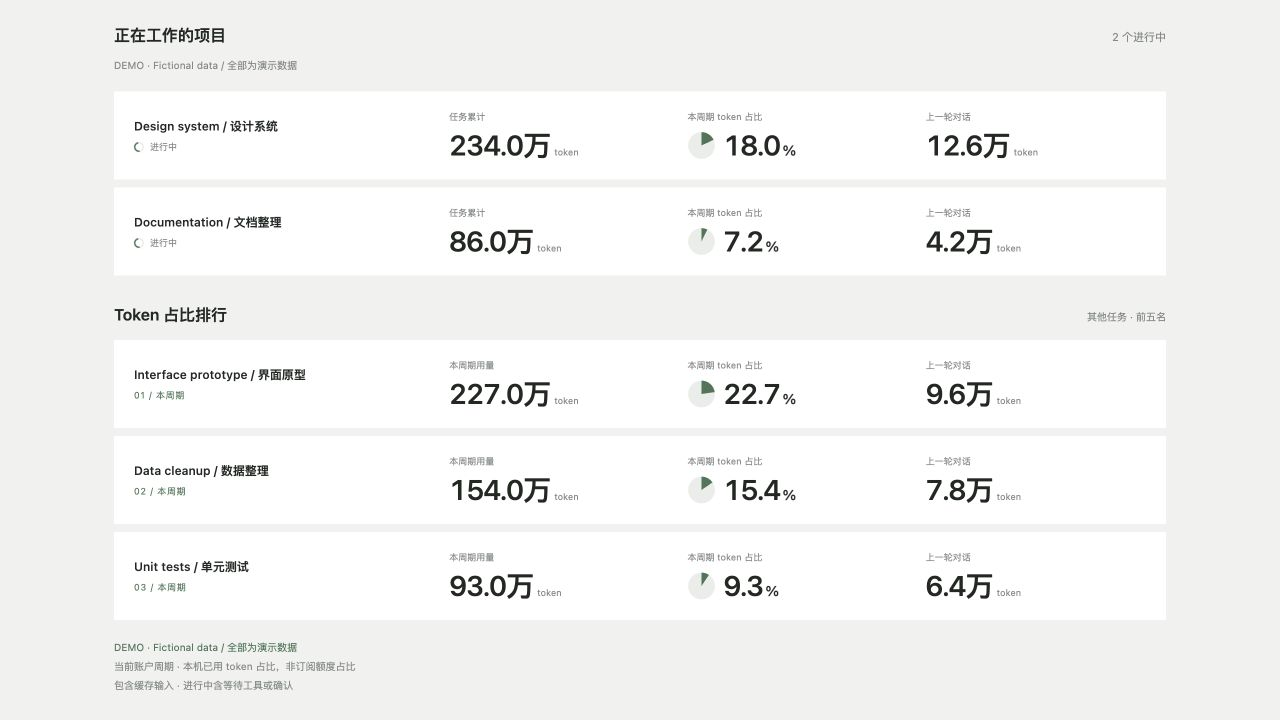
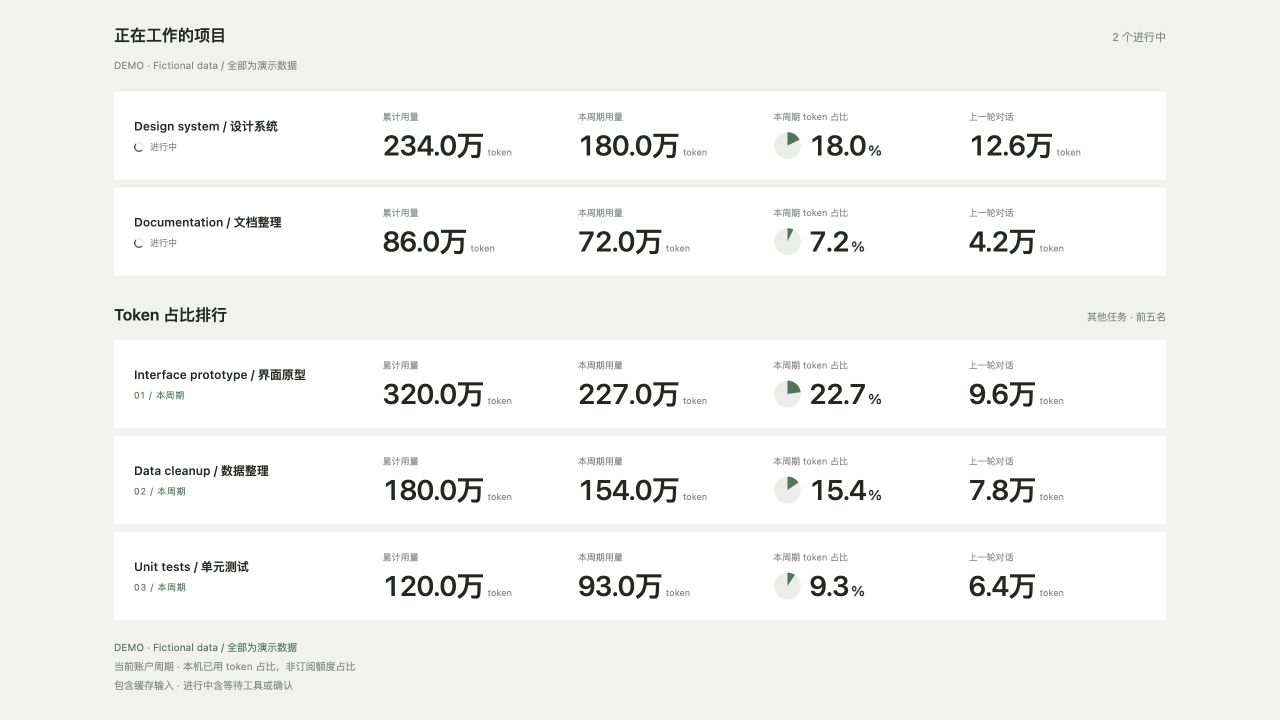
Show all four usage metrics and preserve totals across counter resets

diff --git a/index.html b/index.html
@@ -4,13 +4,13 @@
 :root{color-scheme:light dark;--bg:#f1f2f0;--card:#fff;--text:#222823;--muted:#858b86;--track:#e9ede9;--green:#497557}
 *{box-sizing:border-box}body{margin:0;background:var(--bg);color:var(--text);font:13px -apple-system,BlinkMacSystemFont,"Segoe UI",sans-serif}
 main{max-width:1100px;padding:24px;margin:auto}header{display:flex;align-items:baseline;gap:16px;justify-content:space-between;margin-bottom:18px}h1,h2{font-size:16px;font-weight:600;margin:0}#count{color:var(--muted);font-size:11px;white-space:nowrap}
-.card{display:grid;grid-template-columns:minmax(130px,1.35fr) minmax(120px,1fr) minmax(126px,1fr) minmax(110px,1fr);gap:18px;align-items:center;padding:16px 20px;margin-bottom:8px;background:var(--card);border:0;border-radius:0;min-height:88px}
+.card{display:grid;grid-template-columns:minmax(130px,1.3fr) repeat(2,minmax(115px,1fr)) minmax(126px,1fr) minmax(110px,1fr);gap:18px;align-items:center;padding:16px 20px;margin-bottom:8px;background:var(--card);border:0;border-radius:0;min-height:88px}
 .title{display:flex;flex-direction:column;gap:6px;min-width:0}.name{font-size:12px;line-height:1.4;overflow-wrap:anywhere;font-weight:550}.label,.state{font-size:9px;color:var(--muted);line-height:1.4;letter-spacing:0}.label{white-space:nowrap}.state{display:flex;gap:6px;align-items:center}
 .dot{width:10px;height:10px;flex:none;border:1.5px solid var(--track);border-top-color:var(--green);border-right-color:var(--green);border-radius:50%;animation:spin 1s linear infinite}@keyframes spin{to{transform:rotate(360deg)}}
 .metric{display:flex;flex-direction:column;gap:7px;min-width:0}.small-value,.percent{font-size:28px;font-weight:550;letter-spacing:-.9px;font-variant-numeric:tabular-nums;white-space:nowrap;line-height:1.1}.unit{font-size:9px;color:var(--muted);margin-left:4px;font-weight:400;letter-spacing:0}.share{display:flex;align-items:center;justify-content:space-between;gap:9px}.percent small{font-size:14px;letter-spacing:0;margin-left:2px}.percent-row{display:flex;align-items:center;gap:8px}.pie{width:28px;height:28px;flex:none}
 .empty{color:var(--muted);text-align:center;padding:38px 0;line-height:2}.ranking-head{display:flex;align-items:baseline;justify-content:space-between;gap:12px;margin:28px 0 14px}.hint{font-size:10px;color:var(--muted)}#period{color:var(--muted);font-size:10px;line-height:1.6;margin:-7px 0 18px}.rank{font-size:9px;color:var(--green);letter-spacing:.7px}footer{margin-top:18px;font-size:10px;line-height:1.9;color:var(--muted)}#health{color:var(--green)}
-@media(max-width:680px){main{padding:18px 14px}.card{grid-template-columns:1fr 1.1fr 1fr;gap:12px;padding:14px 16px}.title{grid-column:1/-1;flex-direction:row;align-items:baseline;justify-content:space-between;gap:14px}.state{flex:none}.small-value,.percent{font-size:26px}.pie{width:26px;height:26px}.share{gap:6px}}
-@media(max-width:390px){main{padding:16px 10px}.card{padding:12px;gap:10px}.small-value,.percent{font-size:21px}.unit{display:block;margin:3px 0 0}.pie{width:21px;height:21px}.percent-row{gap:5px}.label{font-size:8px}.share{align-self:start}.name{font-size:11px}}
+@media(max-width:900px){main{padding:18px 14px}.card{grid-template-columns:1fr 1fr 1.1fr 1fr;gap:12px;padding:14px 16px}.title{grid-column:1/-1;flex-direction:row;align-items:baseline;justify-content:space-between;gap:14px}.state{flex:none}.small-value,.percent{font-size:24px}.unit{display:block;margin:3px 0 0}.pie{width:24px;height:24px}.share{gap:6px}}
+@media(max-width:540px){main{padding:16px 10px}.card{padding:14px;gap:16px 24px;grid-template-columns:1fr 1fr}.small-value,.percent{font-size:21px}.unit{display:block;margin:3px 0 0}.pie{width:21px;height:21px}.percent-row{gap:5px}.label{font-size:8px}.share{align-self:start}.name{font-size:11px}}
 @media(prefers-color-scheme:dark){:root{--bg:#191d1a;--card:#242a25;--text:#e5eae6;--muted:#97a399;--track:#364038;--green:#9abb9e}}
 @media(prefers-reduced-motion:reduce){.dot{animation:none}}
 </style><main><header><h1>正在工作的项目</h1><span id="count">连接中</span></header><div id="period">读取统计周期…</div><section id="tasks" aria-live="polite"></section><div class="ranking-head"><h2>Token 占比排行</h2><span class="hint">其他任务 · 前五名</span></div><section id="ranking" aria-live="polite"></section><footer><div id="health">正在连接本机统计…</div><div id="basis">当前账户周期 · 本机已用 token 占比，非订阅额度占比</div><div>包含缓存输入 · 进行中含等待工具或确认</div></footer></main>
@@ -21,7 +21,7 @@ function el(tag,cls,text){const n=document.createElement(tag);n.className=cls;if
 function metric(label,value,cls=''){const n=el('div','metric '+cls);n.append(el('div','label',label));const v=el('div','small-value',format(value));if(value!=null)v.append(el('span','unit','token'));n.append(v);return n}
 function pie(percent){const ns='http://www.w3.org/2000/svg';const svg=document.createElementNS(ns,'svg');svg.setAttribute('viewBox','0 0 44 44');svg.setAttribute('class','pie');svg.setAttribute('role','img');svg.setAttribute('aria-label',percent==null?'周期占比暂无数据':`占本周期已用 token ${percent.toFixed(1)}%`);const bg=document.createElementNS(ns,'circle');for(const [k,v] of Object.entries({cx:22,cy:22,r:21,fill:'var(--track)'}))bg.setAttribute(k,v);svg.append(bg);if(percent>0){const p=Math.min(percent,100);if(p>=100){bg.setAttribute('fill','var(--green)')}else{const a=2*Math.PI*p/100,x=22+21*Math.sin(a),y=22-21*Math.cos(a);const path=document.createElementNS(ns,'path');path.setAttribute('d',`M22 22 L22 1 A21 21 0 ${p>50?1:0} 1 ${x} ${y} Z`);path.setAttribute('fill','var(--green)');svg.append(path)}}return svg}
 let previous='';
-function cardFor(t,rank){const card=el('article','card');const title=el('div','title');const state=el('div','state');if(rank)state.append(el('span','rank',String(rank).padStart(2,'0')+' / 本周期'));else state.append(el('span','dot'),document.createTextNode('进行中'));title.append(el('div','name',t.title),state);const share=el('div','share');const number=el('div','metric');number.append(el('div','label','本周期 token 占比'));const pct=el('div','percent',t.period_percent==null?'—':t.period_percent.toFixed(1));if(t.period_percent!=null)pct.append(el('small','','%'));const percentRow=el('div','percent-row');percentRow.append(pie(t.period_percent),pct);number.append(percentRow);share.append(number);share.title='本任务本周期 token ÷ 本机可读取任务本周期 token（非订阅额度）';const usage=metric(rank?'本周期用量':'任务累计',rank?t.period_tokens:t.tokens);usage.title=rank?'排行按当前周期用量排序':'任务开始至今的累计；占比只取本周期用量';card.append(title,usage,share,metric('上一轮对话',t.previous_turn_tokens,'previous'));return card}
+function cardFor(t,rank){const card=el('article','card');const title=el('div','title');const state=el('div','state');if(rank)state.append(el('span','rank',String(rank).padStart(2,'0')+' / 本周期'));else state.append(el('span','dot'),document.createTextNode('进行中'));title.append(el('div','name',t.title),state);const share=el('div','share');const number=el('div','metric');number.append(el('div','label','本周期 token 占比'));const pct=el('div','percent',t.period_percent==null?'—':t.period_percent.toFixed(1));if(t.period_percent!=null)pct.append(el('small','','%'));const percentRow=el('div','percent-row');percentRow.append(pie(t.period_percent),pct);number.append(percentRow);share.append(number);share.title='本任务本周期 token ÷ 本机可读取任务本周期 token（非订阅额度）';const usage=metric('累计用量',t.tokens);usage.title='任务开始至今的全部累计 token';const periodUsage=metric('本周期用量',t.period_tokens);periodUsage.title='当前统计周期内已用 token；排行按此数值排序';card.append(title,usage,periodUsage,share,metric('上一轮对话',t.previous_turn_tokens,'previous'));return card}
 function render(data){const key=JSON.stringify([data.tasks,data.ranking,data.cycle]);document.body.dataset.demo=data.demo?'true':'false';count.textContent=data.tasks.length+' 个进行中';if(key===previous)return;previous=key;const ranks=document.querySelector('#ranking');box.replaceChildren();ranks.replaceChildren();if(!data.tasks.length)box.append(el('div','empty','当前无进行中的任务'));for(const t of data.tasks)box.append(cardFor(t));if(!data.ranking?.length)ranks.append(el('div','empty',data.warning?'排行暂不可用':'本周期暂无其他已用 token 的任务'));for(const [i,t] of (data.ranking||[]).entries())ranks.append(cardFor(t,i+1));const fmt=n=>new Date(n*1000).toLocaleString('zh-CN',{timeZone:'Asia/Shanghai',month:'2-digit',day:'2-digit',hour:'2-digit',minute:'2-digit',hour12:false});document.querySelector('#period').textContent=data.demo?'DEMO · Fictional data / 全部为演示数据':data.cycle?'本周期 '+fmt(data.cycle.start)+' — '+fmt(data.cycle.end)+' · 北京时间':'当前周期尚未取得'}
 async function tick(){try{const r=await fetch('/api/status',{cache:'no-store'}),d=await r.json();if(!r.ok)throw new Error();render(d);health.textContent=d.warning||(d.demo?'DEMO · Fictional data / 全部为演示数据':'本地自动更新 · 不调用 AI');}catch(e){count.textContent='连接中断';health.textContent='统计已暂停，请启动本地服务';box.replaceChildren();document.querySelector('#ranking').replaceChildren();previous='';}finally{setTimeout(tick,3000)}}tick();
 </script></html>

diff --git a/server.py b/server.py
@@ -20,6 +20,7 @@ class Tail:
         self.turn = None
         self.ended = 0
         self.total = None
+        self.raw_total = None
         self.stamp = 0
         self.turn_base = None
         self.previous_turn = None
@@ -60,12 +61,13 @@ class Tail:
             usage = (p.get('info') or {}).get('total_token_usage') or {}
             if isinstance(usage.get('total_tokens'), int):
                 new_total = usage['total_tokens']
-                delta = max(0, new_total - self.total) if self.total is not None and new_total >= self.total else new_total
+                delta = new_total - self.raw_total if self.raw_total is not None and new_total >= self.raw_total else new_total
                 if self.active:
                     self.current_turn_usage += delta
                     if self.turn_base is None and self.total is None:
                         self.turn_base = 0
-                self.total = new_total
+                self.total = (self.total or 0) + delta
+                self.raw_total = new_total
                 try:
                     stamp = datetime.fromisoformat(d['timestamp'].replace('Z', '+00:00')).timestamp()
                     key = (stamp, new_total)
@@ -194,7 +196,7 @@ class Handler(BaseHTTPRequestHandler):
         path = urlsplit(self.path).path
         status = 200
         if path == '/api/health':
-            data = json.dumps({'app':'codex-token-meter','version':'1.0.2'}).encode()
+            data = json.dumps({'app':'codex-token-meter','version':'1.0.3'}).encode()
             content_type = 'application/json; charset=utf-8'
         elif path == '/api/status':
             if self.headers.get('Sec-Fetch-Site') == 'cross-site':

diff --git a/test_monitor.py b/test_monitor.py
@@ -43,6 +43,13 @@ class MonitorTests(unittest.TestCase):
         cutoff=datetime.fromisoformat('2026-09-07T00:00:00+08:00').timestamp()
         self.assertEqual(sum(v for k,v in tail.week_events.items() if k[0]>=cutoff),400)
 
+    def test_counter_reset_preserves_lifetime(self):
+        tail=Tail('/tmp/not-read')
+        for total in (1000,1200,100,250):
+            tail.apply({'type':'event_msg','payload':{'type':'token_count','info':{'total_token_usage':{'total_tokens':total}}}})
+        self.assertEqual(tail.total,1450)
+        self.assertEqual(tail.raw_total,250)
+
     def test_completion_removal_and_privacy(self):
         with tempfile.TemporaryDirectory() as tmp:
             root=Path(tmp);(root/'sessions').mkdir();p=root/'sessions'/'test.jsonl'

diff --git a/build_release.py b/build_release.py
@@ -6,7 +6,7 @@ FILES=('checksums.json','meter.py','server.py','index.html','install.sh','LICENS
        'test_monitor.py','test_lifecycle.py','build_release.py','docs/demo.png','docs/launch-copy.md','docs/release-notes.md')
 if __name__=='__main__':
     root=Path(__file__).resolve().parent;out=root/'dist';out.mkdir(exist_ok=True)
-    archive=out/'codex-token-meter-1.0.2.zip'
+    archive=out/'codex-token-meter-1.0.3.zip'
     with zipfile.ZipFile(archive,'w',zipfile.ZIP_DEFLATED) as z:
         for name in FILES:
             p=root/name

diff --git a/meter.py b/meter.py
@@ -3,7 +3,7 @@
 import argparse, json, os, secrets, shutil, subprocess, sys, time, urllib.request
 from pathlib import Path
 
-VERSION = '1.0.2'
+VERSION = '1.0.3'
 FILES = ('meter.py', 'server.py', 'index.html', 'LICENSE', 'README.md', 'README.zh-CN.md')
 MARKER = 'codex-token-meter-owned-v1'
 

diff --git a/README.md b/README.md
@@ -4,7 +4,7 @@
 
 [Quick install](#quick-install) · [中文说明](README.zh-CN.md) · [Star this project](https://github.com/julilaoshi/codex-token-meter)
 
-Public v1.0.2 · Local macOS utility · Python 3.9+ · No third-party Python dependencies · No model calls
+Public v1.0.3 · Local macOS utility · Python 3.9+ · No third-party Python dependencies · No model calls
 
 ![Token Meter preview — fictional demonstration data](docs/demo.png)
 
@@ -12,7 +12,7 @@ Public v1.0.2 · Local macOS utility · Python 3.9+ · No third-party Python dep
 
 ## What you get
 
-- Active tasks with a spinner, lifetime tokens and previous-turn usage.
+- Four metrics per task: lifetime tokens, current-period tokens, current-period token share and previous-turn usage. Active tasks include a spinner.
 - Your current Codex allowance period, discovered from local usage records.
 - Token share for each task within that period, with a compact pie chart.
 - Top five other completed tasks, ranked by tokens consumed in the same period.
@@ -25,7 +25,7 @@ This is an independent community tool, not an OpenAI product. The interface curr
 Requires macOS with Python 3.9+ and local Codex session records. No sudo, subscription credentials or API key is required. Review [install.sh](install.sh) before running it.
 
 ```sh
-python3 -c 'import urllib.request, subprocess; subprocess.run(["sh"], input=urllib.request.urlopen("https://raw.githubusercontent.com/julilaoshi/codex-token-meter/v1.0.2/install.sh", timeout=30).read(), check=True)'
+python3 -c 'import urllib.request, subprocess; subprocess.run(["sh"], input=urllib.request.urlopen("https://raw.githubusercontent.com/julilaoshi/codex-token-meter/v1.0.3/install.sh", timeout=30).read(), check=True)'
 ```
 
 The installer fetches a fixed release, verifies its SHA-256 checksum, installs into your user directory and starts the local service. Click the printed localhost URL, or ask Codex to open it in its right-side browser panel. The panel is a browser tab attached to a task, not a global extension of the Codex interface.
@@ -58,7 +58,7 @@ Re-run the installer for a published version to update. No automatic updates or 
 
 The cycle uses the latest `codex` seven-day limit record: reset time minus seven days to reset time. The interface displays dates in Beijing time. Missing or expired cycle data makes the percentage and ranking unavailable until Codex writes a fresh record. No artificial weekly budget is assumed.
 
-Input, cached input and output follow Codex's cumulative token records. Snapshots are converted to increments; repeated timestamp/cumulative-count events are attributed once. A turn spans a user request and the model calls made before that turn ends or is cancelled. “Previous turn” does not mean the last model request.
+Input, cached input and output follow Codex's cumulative token records. Lifetime usage remains cumulative when source counters reset. Snapshots are converted to increments; repeated timestamp/cumulative-count events are attributed once. A turn spans a user request and the model calls made before that turn ends or is cancelled. “Previous turn” does not mean the last model request.
 
 ## Privacy and limits
 

diff --git a/README.zh-CN.md b/README.zh-CN.md
@@ -4,7 +4,7 @@
 
 [一键安装](#一键安装) · [English](README.md) · [给项目点 Star](https://github.com/julilaoshi/codex-token-meter)
 
-公开版 v1.0.2 · macOS 本地工具 · Python 3.9+ · 无第三方 Python 依赖 · 运行不调用 AI
+公开版 v1.0.3 · macOS 本地工具 · Python 3.9+ · 无第三方 Python 依赖 · 运行不调用 AI
 
 ![Token 计量表演示，名称和数值均为虚构](docs/demo.png)
 
@@ -12,7 +12,7 @@
 
 ## 一个小面板，看清正在发生的消耗
 
-- 上方：正在工作的任务，动态转圈、任务累计、上一轮对话用量。
+- 上方：正在工作的任务，动态转圈；四项并列显示累计用量、本周期用量、本周期 token 占比、上一轮对话用量。
 - 下方：其他已结束任务的本周期用量前五名。
 - 每个任务：本周期 token 占比与小饼图。
 - 每三秒自动更新，直角长条、大数字、小标签。
@@ -24,7 +24,7 @@
 需要 macOS、Python 3.9+ 和本地 Codex 会话记录。无需 sudo、订阅账号密码或 API key。运行前可先查看 [安装脚本](install.sh)。
 
 ```sh
-python3 -c 'import urllib.request, subprocess; subprocess.run(["sh"], input=urllib.request.urlopen("https://raw.githubusercontent.com/julilaoshi/codex-token-meter/v1.0.2/install.sh", timeout=30).read(), check=True)'
+python3 -c 'import urllib.request, subprocess; subprocess.run(["sh"], input=urllib.request.urlopen("https://raw.githubusercontent.com/julilaoshi/codex-token-meter/v1.0.3/install.sh", timeout=30).read(), check=True)'
 ```
 
 安装程序下载固定版本、核验 SHA-256、安装到用户自己的工具目录并启动服务。点击它输出的本机地址即可查看，也可以让 Codex 在右侧浏览器打开。右侧网页属于当前任务的浏览器标签页，并非 Codex 全局内嵌组件。
@@ -56,7 +56,7 @@ python3 ~/.local/share/codex-token-meter/meter.py uninstall
 
 这不是订阅额度百分比，不是费用，也不是上下文占用。不能通过选择 Pro 20× 换算出固定 token 上限。
 
-周期来自本地最新的 Codex 七天额度记录：重置时间往前七天到重置时间，日期按北京时间展示。周期缺失或过期时暂不显示占比和排行，不编造新周期。累计值转增量统计，相同时间和累计量的重复事件只归属一次；上一轮对话是最近一个结束或取消的用户轮次，不是最后一次模型请求。
+周期来自本地最新的 Codex 七天额度记录：重置时间往前七天到重置时间，日期按北京时间展示。周期缺失或过期时暂不显示占比和排行，不编造新周期。累计值转增量统计，原始计数重置时继续保留已累计的用量，相同时间和累计量的重复事件只归属一次；上一轮对话是最近一个结束或取消的用户轮次，不是最后一次模型请求。
 
 ## 隐私与适用范围
 

diff --git a/docs/release-notes.md b/docs/release-notes.md
@@ -1,17 +1,8 @@
-# v1.0.2 — Codex Token Meter
+# v1.0.3 — Four usage metrics
 
-A compact local dashboard for Codex usage on macOS.
+- Show lifetime usage, current-period usage, period token share and previous-turn usage together for every task, including rankings.
+- Preserve lifetime totals across resets of the source token counter.
+- Adapt the four-metric layout to narrow panels without overlapping values.
+- Refresh the fictional demo screenshot and installation checksums.
 
-- Active tasks with animated indicators, cumulative tokens and previous-turn usage.
-- Current-period token shares and top-five completed-task rankings.
-- Three-second refresh with no model calls or runtime telemetry.
-- Fixed-version installer with checksum verification, local service controls and safe installation ownership checks.
-- Fictional-data demo, bilingual documentation and contribution guides.
-
-Requires Python 3.9+. The interface currently uses Chinese labels. Counts reflect available local records, not billing or subscription allowance attribution. Local schema changes may require a parser update; missing/expired cycle metadata is shown as unavailable.
-
-Install from the README, or download the ZIP and run `python3 meter.py install`. SHA256SUMS covers the attached distribution archive.
-
-Installation update: fetches fixed-tag source files with per-file SHA-256 verification, avoiding the separate Release asset download host. The ZIP remains available for manual installation.
-
-The recommended one-line entry uses Python HTTPS directly, matching the sole required runtime and avoiding curl-specific proxy behavior.
+macOS and Python 3.9+. Period shares describe observed local token usage, not subscription allowance consumption. Monitoring does not call a model. Existing users can rerun the tagged installer in the README to update.

diff --git a/PUBLIC_RELEASE_CHECKLIST.md b/PUBLIC_RELEASE_CHECKLIST.md
@@ -1,4 +1,4 @@
-# v1.0.2 release checks
+# v1.0.3 release checks
 
 - [x] New standalone source repository; no inherited private history.
 - [x] English and Chinese README and contribution guides.
